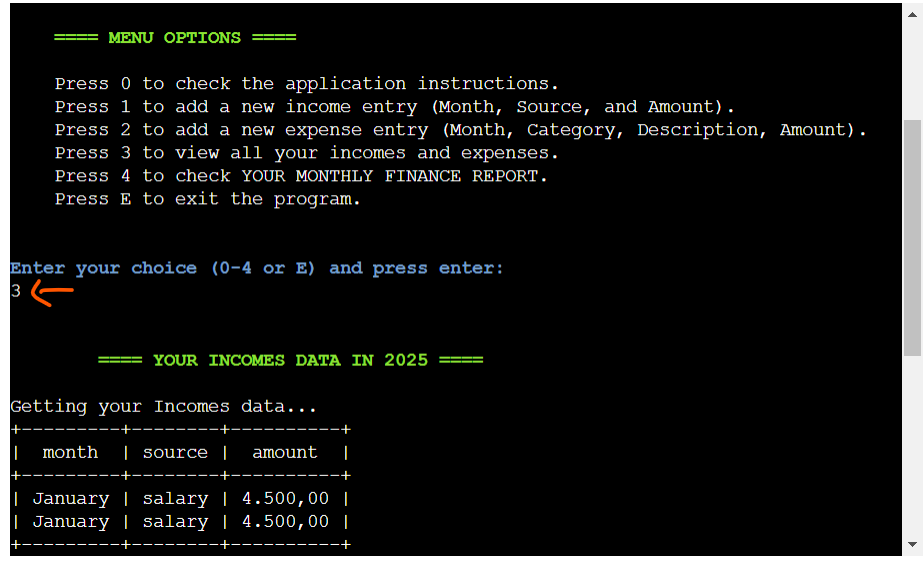
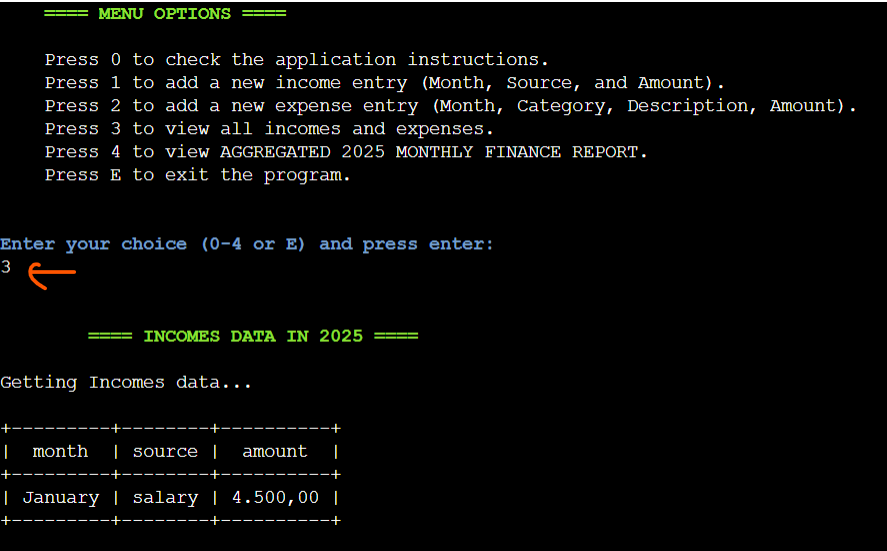
ReadMe: Update screenshots until user menu option 3

Changed region(s): [[0.0, 0.0, 1.0, 1.0], [0.0913, 0.5862, 0.5175, 0.6479]]

diff --git a/run.py b/run.py
@@ -797,7 +797,7 @@ class FinanceManager:
             else:
                 print(f"""
                 {Fore.LIGHTRED_EX}\nThere is no data for {month} yet...
-                {Style.RESET_ALL}"
+                {Style.RESET_ALL}
                 """)
 
                 # Get user's next action

diff --git a/README.md b/README.md
@@ -153,7 +153,14 @@ The Menu provides the following options:
 ![instructions part3](documentation/website-screenshots/9-application-instructions-part3.png)
 ![instructions part4](documentation/website-screenshots/9-application-instructions-part4.png)
 
-+ **Return to Menu / Exit Prompt:** After the applications instructions are displayed, the application prompts the user to either return to the main menu or exit the program. This provides a controlled flow within the application.  Invalid input (anything other than 'M' or 'E', or "m" or "e") is handled with a clear error message.
++ **Return to Menu / Exit Prompt:** After the applications instructions are displayed, the application prompts the user to either return to the main menu or exit the program. This provides a controlled flow within the application.
+
+![Valid input m](documentation/website-screenshots/10-from-option0-valid-input-m-lowercase.png)
+![Valid input M](documentation/website-screenshots/11-from-option0-valid-input-m-uppercase.png)
+![Valid input e](documentation/website-screenshots/12-from-option0-valid-input-e-lowercase.png)
+![Valid input E](documentation/website-screenshots/13-from-option0-valid-input-e-uppercase.png)
+
++ Invalid input (anything other than 'M' or 'E', or "m" or "e") is handled with a clear error message.
 
 ![Invalid input example](documentation/website-screenshots/14-from-option0-invalid-input-example.png)
 
@@ -168,50 +175,50 @@ The Menu provides the following options:
     *   **Source:** The source of the income (e.g., Salary, Freelance).  The application validates that the source is at least 4 characters long and isn't entirely numeric.
     *   **Amount:** The amount earned. The application displays and stores the amount using the standard European currency format (e.g., 1.500,00 EUR).  
     
-+ All input fields are required and cannot be left empty. Example below.
++ All input fields are required and cannot be left empty (example below).
 
-![Invalid empty input](documentation/website-screenshots/19-empty-invalid-input.png)
+![Invalid empty input](documentation/website-screenshots/16-empty-invalid-input.png)
 
 + Leading/trailing spaces are accepted (e.g., JanuarY, January, january, "    January", etc. are all accepted).
 
 + Including capitalization to month and source inputs is accepted.
 
-+ The amount must be a positive number (no negative "-" sign accepted).
++ The application validates that the source is at least 4 characters long and isn't entirely numeric.
 
-![amount accepts letter and characters](documentation/website-screenshots/19-amount-accepts-letters-and-characters.png)
++ The amount must be a positive number (no negative "-" sign accepted).
 
 + The amount ideally contains only digits, but to anticipate that an user can make a mistake, special characters or letters are accepted but are removed and not displayed.
 
-+ All invalid inputs are handled with a clear error message. Examples below:
+![amount accepts letter and characters](documentation/website-screenshots/17-amount-accepts-letters-and-characters.png)
 
-![Invalid month](documentation/website-screenshots/20-invalid-month-name.png)
++ After entering all inputs correctly, the application displays a message of the added income (month, source, and amount) confirming that the new income entry has been successfully stored. 
 
-![Invalid source](documentation/website-screenshots/21-invalid-source-input.png)
+![New income added message](documentation/website-screenshots/17-income-data-added-message.png)
 
-![Invalid amount](documentation/website-screenshots/22-invalid-amount-input.png)
++ Users are then given the option to add another income entry, add an expense entry, return to the main menu, or exit the application. The application validates user input for these options as well, displaying an error message for invalid choices as shown 
+in **User inputs 0**.
 
-+ After entering the details, the application displays a message of the added income (month, source, and amount) confirming that the new income entry has been successfully stored. 
+![New income data displayed, and the user is prompted for further action](documentation/website-screenshots/17-income-data-added-message.png)
 
-+ Users are then given the option to add another income entry, add an expense entry, return to the main menu, or exit the application. 
-
-![New income data displayed, and the user is prompted for further action](documentation/website-screenshots/16-income-data-added.png)
-
-+ The application validates user input for these options as well, displaying an error message for invalid choices (figure below).
-
-![Invalid option example](documentation/website-screenshots/17-invalid-input-example.png)
-
-+ The new income record is appended (stored) to the my_finances Google cloud "incomes" worksheet (figure below).
++ The new income record is appended (stored) to the my_finances Google "incomes" worksheet.
 
 ![my_finances incomes worksheet](documentation/website-screenshots/18-income-addded-to-google-income-worksheet.png)
+
++ All invalid month, source and amount inputs are handled with a clear error message. Examples below:
+
+![Invalid month](documentation/website-screenshots/19-invalid-month-name.png)
+
+![Invalid source](documentation/website-screenshots/20-invalid-source-input.png)
+
+![Invalid amount](documentation/website-screenshots/21-invalid-amount-input.png)
 
 **Menu Option 2**
 
 + **User inputs 2:**
 
-![Menu option 2](documentation/website-screenshots/19-user-selection-option2.png)
-
+![Menu option 2](documentation/website-screenshots/22-user-selection-option2.png)
 +   **Adding Expenses:** Users can easily record their expenses for 2025. The application prompts for the following information:
-    -   **Month:** The month the expense was incurred (e.g., January).  Full month names are accepted.
+    -   **Month:** The month the expense was incurred (e.g., January). Full month names are accepted.
     -   **Category:** The category of the expense.
     Importantly, this input was restricted to a predefined list of categories. This is because the category input is used to calculate the expenses per category and the highest expense. Therefore, data consitency was needed, an this approach resolves the problem with inconsistent category names. 
     The defined categories list is:
@@ -238,9 +245,11 @@ The Menu provides the following options:
 
 + Including capitalization to month, category and description inputs is accepted.
 
++ The application validates that the description is at least 4 characters long and isn't entirely numeric.
+
 + The amount must be a positive number (no negative "-" sign accepted).
 
-+ The amount ideally contains only digits, but to anticipate that an user can make a mistake, special characters or letters are accepted but are removed and not displayed.
++ As shown above, the amount ideally contains only digits, but to anticipate that an user can make a mistake, special characters or letters are accepted but are removed and not displayed.
 
 + All invalid inputs are handled with a clear error message. Examples below:
 
@@ -252,17 +261,17 @@ The Menu provides the following options:
 
 ![Invalid amount](documentation/website-screenshots/27-invalid-amount-input.png)
 
-+ After entering the details, the application displays a message of the added expense (month, category, description and amount) confirming that the new expense entry has been successfully stored. 
++ After entering the inputs correctly, the application displays a message of the added expense (month, category, description and amount) confirming that the new expense entry has been successfully stored. 
 
 + Users are then given the option to add another expense entry, add an income entry, return to the main menu, or exit the application. 
 
 ![New expense data displayed, and the user is prompted for further action](documentation/website-screenshots/28-expense-data-added.png)
 
-+ The application validates user input for these options as well, displaying an error message for invalid choices (figure below).
++ The application validates user input for these options as well, displaying an error message for invalid choices.
 
 ![Invalid option example](documentation/website-screenshots/29-invalid-input-example.png)
 
-+ The new expense record is appended (stored) to the my_finances Google cloud "expenses" worksheet (figure below).
++ The new expense record is appended (stored) to the my_finances Google cloud "expenses" worksheet. Below an example of multiple users having entered their data:
 
 ![my_finances expenses worksheet](documentation/website-screenshots/30-expense-added-to-google-income-worksheet.png)
 
@@ -272,7 +281,9 @@ The Menu provides the following options:
 
 ![Menu option 3](documentation/website-screenshots/31-user-selection-option3.png)
 
-*   **Viewing Income and Expense Data:** Users can view all recorded income or expense data in a tabular format. 
+*   **Viewing Income and Expense Data:** Users can view all recorded income or expense data (regardless of the month) in a tabular format.
+
++ This option was created for data transparency.
 
 + The application retrieves the data from the specified worksheet (Incomes or Expenses) and displays it in a well-formatted table.
 
@@ -280,7 +291,7 @@ The Menu provides the following options:
 
 ![display all income and expense data](documentation/website-screenshots/32-display-all-incomes-and-expenses.png)
 
-+ If there is neither income nor expense data, the application displays a message indicating that no data is available.
++ If there is neither income nor expense data yet (the worksheets are empty, containing only the headers) the application displays a message indicating that no data is available.
 
 ![neither income nor expense data](documentation/website-screenshots/32-neither-income-nor-expense-data-to-display.png)
 
@@ -300,17 +311,22 @@ The Menu provides the following options:
 
 ![Menu option 4](documentation/website-screenshots/33-user-selection-option4.png)
 
++ The application first displays the report title and a description of what this feature is about:
+
 +   **Generating Monthly Finance Reports:** Users can generate detailed financial reports for any month of 2025. The report includes:
-    -   **Total Income:**  The sum of all income entries for the selected month, displayed in European currency format.
-    -   **Total Expenses:** The sum of all expense entries for the selected month, displayed in European currency format.
-    -   **Cash Balance:** The difference between total income and total expenses for the selected month, displayed in European currency format. 
-    The application clearly indicates whether the balance is positive or negative.
-    🎉🎉 Positive Balance!: "cash balance amount EUR"
-    🚨🚨 Negative Balance!: "cash balance amount EUR"
+    -   **Aggregated Total Income:**  The sum of all income entries for the selected month, displayed in European currency format.
+    -   **Aggregated Total Expenses:** The sum of all expense entries for the selected month, displayed in European currency format.
+    -   **Net Financial Balance:** The difference between total aggregated 
+    income and total aggregated expenses for the selected month, displayed in European currency format. 
+
+    The application will indicate whether the community/group balance is positive or negative:
+    🎉🎉 Positive Balance!: "amount EUR"
+    🚨🚨 Negative Balance!: "amount EUR"
+
     -   **Expense Breakdown by Category:** A detailed breakdown of expenses for the selected month, showing the total amount spent in each category, displayed in European currency format.
     -   **Highest Expense Category:** The expense category with the highest total spending for the selected month, also displayed in European currency format.
 
-+ The application first displays the report title in green using colorama to stand out and then prompts the user to enter the month for the report (figure above).
++ Then it prompts the user to enter the month for the report (figure above).
 
 + Month input field is required and cannot be left empty.
 
